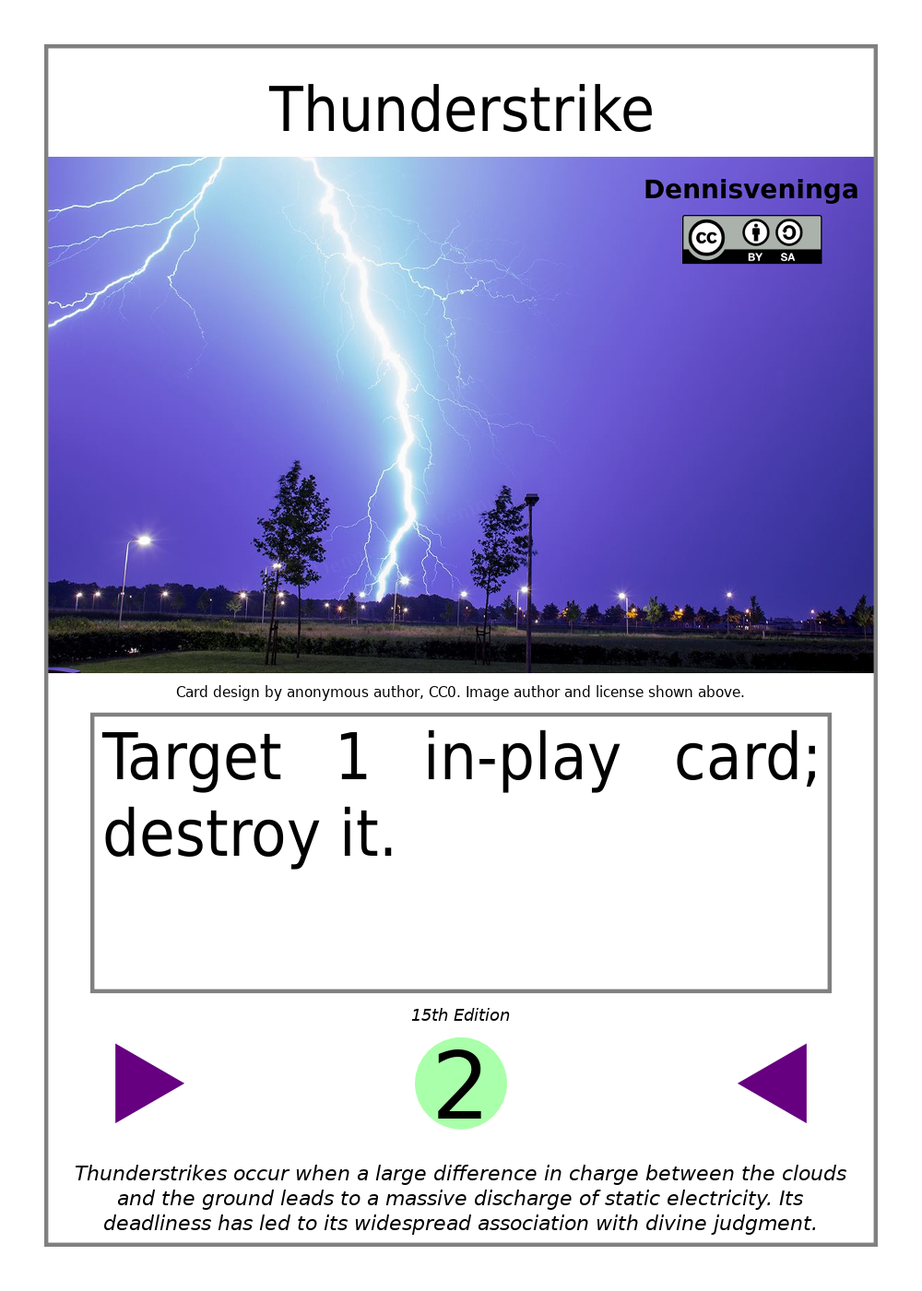
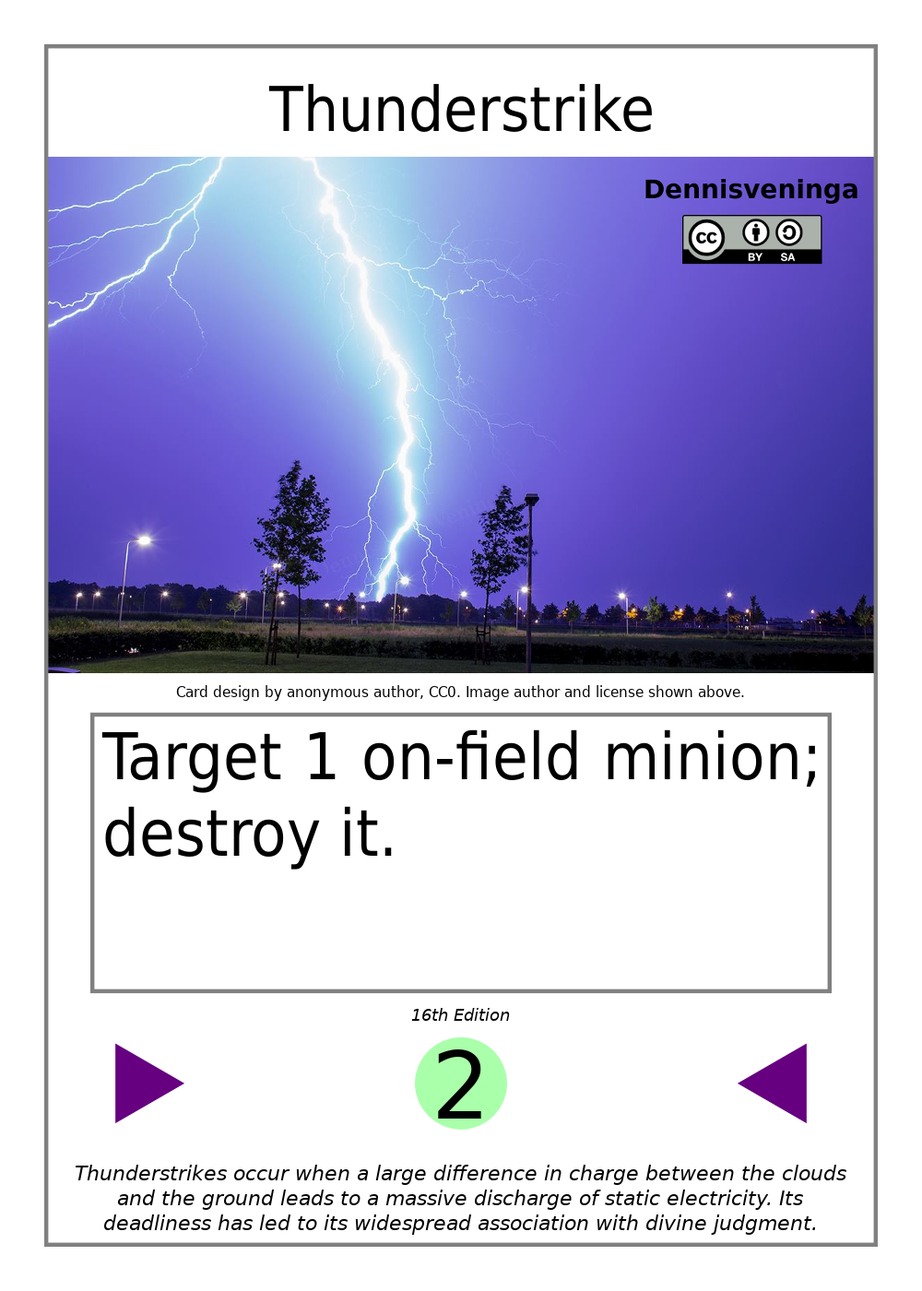
Updated the examples.
Camel example was replaced with ass, since camel doesn't have an
activation cost anymore.

Changed region(s): [[0.341, 0.5529, 0.868, 0.6143]]

diff --git a/examples.html b/examples.html
@@ -35,7 +35,7 @@
                 <li><a href="#asteroid">Spell: Asteroid Impact</a></li>
                 <li><a href="#thunderstrike">Spell: Thunderstrike</a></li>
                 <li><a href="#thor">Minion: Thor</a></li>
-                <li><a href="#camelus-bactrianus">Minion: Camelus Bactrianus</a></li>
+                <li><a href="#equus-africanus-asinus">Minion: Equus Africanus Asinus</a></li>
             </ol>
         </nav>
 
@@ -72,13 +72,13 @@
         </ol>
 
         <h3 id="asteroid">Spell: Asteroid Impact</h3>
-        <img class="example" src="images/build-examples/asteroid_impact.png" alt="Asteroid Impact: level 8 spell with ability: &ldquo;Target up to 4 in-play cards; destroy the targets.&rdquo;">
+        <img class="example" src="images/build-examples/asteroid_impact.png" alt="Asteroid Impact: level 8 spell with ability: &ldquo;Target up to 4 on-field minions; destroy the targets.&rdquo;">
         <p>This spell is slightly more complex than Antibiotic, but still fairly simple, composed of a single target selection and a single effect. The following steps recreate this spell:</p>
         <ol>
             <li>Begin with the spell's level set to 0.</li>
             <li>Choose the effect you want from <a href="cardbuilding.html#effects">Card Building Guide: Effects</a>. In this case, it's: &ldquo;destroy the targets.&rdquo;</li>
-            <li>Since the chosen effect does something with targets, we must include a target selection for this to do anything. Choose the target selection you want from <a href="cardbuilding.html#targeting">Card Building Guide: Target Selections</a>. In this case, we choose, &ldquo;Target up to <var>x</var> in-play cards;&rdquo;</li>
-            <li>Since the target selection has a variable <var>x</var>, replace that variable with a number. In this case, we choose the number 4. This gives us: &ldquo;Target up to 4 in-play cards;&rdquo;</li>
+            <li>Since the chosen effect does something with targets, we must include a target selection for this to do anything. Choose the target selection you want from <a href="cardbuilding.html#targeting">Card Building Guide: Target Selections</a>. In this case, we choose, &ldquo;Target up to <var>x</var> on-field minions;&rdquo;</li>
+            <li>Since the target selection has a variable <var>x</var>, replace that variable with a number. In this case, we choose the number 4. This gives us: &ldquo;Target up to 4 on-field minions;&rdquo;</li>
             <li>Check the target selection's formula for the variable <var>t</var>. In this case, the formula is
                 <math display="inline">
                     <mrow>
@@ -119,19 +119,19 @@
                 </math>
                 We can now solve the level increase formula; doing so, we get 8 and therefore add 8 to the spell's level, bringing it to 8.
             </li>
-            <li>The spell's sub-ability text is the target selection followed by the effect.  In this case, we get: &ldquo;Target up to 4 in-play cards; destroy the targets.&rdquo;</li>
-            <li>Since the spell has no activation conditions and no activation costs, the ability text is just the sub-ability text. This gives us: &ldquo;Target up to 4 in-play cards; destroy the targets.&rdquo;</li>
+            <li>The spell's sub-ability text is the target selection followed by the effect.  In this case, we get: &ldquo;Target up to 4 on-field minions; destroy the targets.&rdquo;</li>
+            <li>Since the spell has no activation conditions and no activation costs, the ability text is just the sub-ability text. This gives us: &ldquo;Target up to 4 on-field minions; destroy the targets.&rdquo;</li>
             <li>The spell's final level in this example is 8.</li>
         </ol>
 
         <h3 id="thunderstrike">Spell: Thunderstrike</h3>
-        <img class="example" src="images/build-examples/thunderstrike.png" alt="Thunderstrike: level 2 spell with ability: &ldquo;Target 1 in-play card; destroy it.&rdquo;">
+        <img class="example" src="images/build-examples/thunderstrike.png" alt="Thunderstrike: level 2 spell with ability: &ldquo;Target 1 on-field minion; destroy it.&rdquo;">
         <p>This lower-level spell is made in almost exactly the same way as Asteroid Impact. The following steps recreate it:</p>
         <ol>
             <li>Begin with the spell's level set to 0.</li>
             <li>Choose the effect you want from <a href="cardbuilding.html#effects">Card Building Guide: Effects</a>. In this case, it's: &ldquo;destroy the targets.&rdquo;</li>
-            <li>Since the chosen effect does something with targets, we must include a target selection for this to do anything. Choose the target selection you want from <a href="cardbuilding.html#targeting">Card Building Guide: Target Selections</a>. In this case, we choose, &ldquo;Target up to <var>x</var> in-play cards;&rdquo;</li>
-            <li>Since the target selection has a variable <var>x</var>, replace that variable with a number. In this case, we choose the number 1. This gives us: &ldquo;Target up to 1 in-play cards;&rdquo;</li>
+            <li>Since the chosen effect does something with targets, we must include a target selection for this to do anything. Choose the target selection you want from <a href="cardbuilding.html#targeting">Card Building Guide: Target Selections</a>. In this case, we choose, &ldquo;Target up to <var>x</var> on-field minions;&rdquo;</li>
+            <li>Since the target selection has a variable <var>x</var>, replace that variable with a number. In this case, we choose the number 1. This gives us: &ldquo;Target up to 1 on-field minions;&rdquo;</li>
             <li>Check the target selection's formula for the variable <var>t</var>. In this case, the formula is
                 <math display="inline">
                     <mrow>
@@ -172,14 +172,14 @@
                 </math>
                 We can now solve the formula; doing so, we get 2 and therefore add 2 to the spell's level, bringing it to 2.
             </li>
-            <li>The spell's sub-ability text is the target selection followed by the effect. In this case, we get: &ldquo;Target up to 1 in-play cards; destroy the targets.&rdquo;</li>
-            <li>Since only 1 card can be targeted by the spell's sub-ability, following the card building guide's recommendations, we remove the words "up to" and change the plural &ldquo;cards&rdquo; to the singular &ldquo;card&rdquo; in the target selection, and we change the plural &ldquo;the targets&rdquo; in the effect to the singular &ldquo;it&rdquo;. This gives us: &ldquo;Target 1 in-play card; destroy it.&rdquo;</li>
-            <li>Since the spell has no activation conditions and no activation costs, the ability text is just the sub-ability text. This gives us: &ldquo;Target 1 in-play card; destroy it.&rdquo;</li>
+            <li>The spell's sub-ability text is the target selection followed by the effect. In this case, we get: &ldquo;Target up to 1 on-field minions; destroy the targets.&rdquo;</li>
+            <li>Since only 1 card can be targeted by the spell's sub-ability, following the card building guide's recommendations, we remove the words "up to" and change the plural &ldquo;cards&rdquo; to the singular &ldquo;card&rdquo; in the target selection, and we change the plural &ldquo;the targets&rdquo; in the effect to the singular &ldquo;it&rdquo;. This gives us: &ldquo;Target 1 on-field minion; destroy it.&rdquo;</li>
+            <li>Since the spell has no activation conditions and no activation costs, the ability text is just the sub-ability text. This gives us: &ldquo;Target 1 on-field minion; destroy it.&rdquo;</li>
             <li>The spell's final level in this example is 2.</li>
         </ol>
 
         <h3 id="thor">Minion: Thor</h3>
-        <img class="example" src="images/build-examples/thor.png" alt="Thor: level 9 minion with 4 SP, 6 HP, and a single ability titled &ldquo;THOR'S HAMMER&rdquo;: &ldquo;When this card attacks, after Attack Formation (ghost-play): Target 1 in-play card; destroy it.&rdquo;">
+        <img class="example" src="images/build-examples/thor.png" alt="Thor: level 9 minion with 4 SP, 6 HP, and a single ability titled &ldquo;THOR'S HAMMER&rdquo;: &ldquo;When this card attacks, after Attack Formation (ghost-play): Target 1 on-field minion; destroy it.&rdquo;">
         <p>This minion has an ability which is almost identical to the Thunderstrike spell, but includes an activation condition as well. The following steps recreate this minion:</p>
         <ol>
             <li>Begin with the minion's level set to 0.</li>
@@ -190,8 +190,8 @@
             <li>Choose a name for the minion's ability. It can be anything you want, but must be in all capital letters. In this case, we choose &ldquo;THOR'S HAMMER&rdquo;. Its level starts at 0.</li>
             <li>In this case, we want to include an activation condition in THOR'S HAMMER. Select the desired activation condition from <a href="cardbuilding.html#conditions">Card Building Guide: Activation Conditions</a>. In this case, it's: &ldquo;When this card attacks, after Attack Formation (ghost-play):&rdquo;</li>
             <li>Choose the effect you want for THOR'S HAMMER's sub-ability from <a href="cardbuilding.html#effects">Card Building Guide: Effects</a>. In this case, it's: &ldquo;destroy the targets.&rdquo;</li>
-            <li>Since the chosen effect does something with targets, we must include a target selection for this to do anything. Choose the target selection you want from <a href="cardbuilding.html#targeting">Card Building Guide: Target Selections</a>. In this case, we choose, &ldquo;Target up to <var>x</var> in-play cards;&rdquo;</li>
-            <li>Since the target selection has a variable <var>x</var>, replace that variable with a number. In this case, we choose the number 1. This gives us: &ldquo;Target up to 1 in-play cards;&rdquo;</li>
+            <li>Since the chosen effect does something with targets, we must include a target selection for this to do anything. Choose the target selection you want from <a href="cardbuilding.html#targeting">Card Building Guide: Target Selections</a>. In this case, we choose, &ldquo;Target up to <var>x</var> on-field minions;&rdquo;</li>
+            <li>Since the target selection has a variable <var>x</var>, replace that variable with a number. In this case, we choose the number 1. This gives us: &ldquo;Target up to 1 on-field minions;&rdquo;</li>
             <li>Check the target selection's formula for the variable <var>t</var>. In this case, the formula is
                 <math display="inline">
                     <mrow>
@@ -233,15 +233,15 @@
                 We can now solve the formula; doing so, we get 2 and therefore add 2 to THOR'S HAMMER's level, bringing it to 2.
             </li>
             <li>Add THOR'S HAMMER's level (2) to the minion's level, bringing it to 9.</li>
-            <li>THOR'S HAMMER's sub-ability text is the target selection followed by the effect. In this case, we get: &ldquo;Target up to 1 in-play cards; destroy the targets.&rdquo;</li>
-            <li>Since only 1 card can be targeted by THOR'S HAMMER's sub-ability, following the card building guide's recommendations, we remove the words "up to" and change the plural &ldquo;cards&rdquo; to the singular &ldquo;card&rdquo; in the target selection, and we change the plural &ldquo;the targets&rdquo; in the effect to the singular &ldquo;it&rdquo;. This gives us: &ldquo;Target 1 in-play card; destroy it.&rdquo;</li>
-            <li>THOR'S HAMMER's ability text is its name (&ldquo;THOR'S HAMMER&rdquo;), followed by a colon, followed by its activation condition, followed by its sub-ability text. In this case, we get: &ldquo;THOR'S HAMMER: When this card attacks, after Attack Formation (ghost-play): Target 1 in-play card; destroy it.&rdquo;</li>
+            <li>THOR'S HAMMER's sub-ability text is the target selection followed by the effect. In this case, we get: &ldquo;Target up to 1 on-field minions; destroy the targets.&rdquo;</li>
+            <li>Since only 1 card can be targeted by THOR'S HAMMER's sub-ability, following the card building guide's recommendations, we remove the words "up to" and change the plural &ldquo;cards&rdquo; to the singular &ldquo;card&rdquo; in the target selection, and we change the plural &ldquo;the targets&rdquo; in the effect to the singular &ldquo;it&rdquo;. This gives us: &ldquo;Target 1 on-field minion; destroy it.&rdquo;</li>
+            <li>THOR'S HAMMER's ability text is its name (&ldquo;THOR'S HAMMER&rdquo;), followed by a colon, followed by its activation condition, followed by its sub-ability text. In this case, we get: &ldquo;THOR'S HAMMER: When this card attacks, after Attack Formation (ghost-play): Target 1 on-field minion; destroy it.&rdquo;</li>
             <li>The minion's ability text is the ability text of all abilities (THOR'S HAMMER in this case), each on a separate paragraph.</li>
             <li>The minion's final level in this example is 9.</li>
         </ol>
 
-        <h3 id="camelus-bactrianus">Minion: Camelus Bactrianus</h3>
-        <img class="example" src="images/build-examples/camelus_bactrianus.png" alt="Camelus Bactrianus: level 5 minion with 0 SP, 0 HP, and 2 abilities: &ldquo;CARAVAN&rdquo; and &ldquo;LAST STRAW&rdquo;. CARAVAN: &ldquo;Excavate 6 cards and target 1 excavated card; bounce it.&rdquo; LAST STRAW: &ldquo;When this in-play card is destroyed (ghost-play): self-exhaust 4 resources→ Excavate 11 cards and target 1 excavated card; sheathe it.&rdquo;">
+        <h3 id="equus-africanus-asinus">Minion: Equus Africanus Asinus</h3>
+        <img class="example" src="images/build-examples/equus_africanus_asinus.png" alt="Equus Africanus Asinus: level 3 minion with 0 SP, 0 HP, and 2 abilities: &ldquo;ASSIST&rdquo; and &ldquo;REASSESS&rdquo;. ASSIST: &ldquo;Draw 1 card.&rdquo; REASSESS: &ldquo;When this on-field minion is destroyed (ghost-play): self-exhaust 2 resources→ Target this card; silo it.&rdquo;">
         <p>This minion has no SP or HP, but has two abilities, one of which has a non-standard activation condition and an activation cost. The following steps recreate this minion:</p>
         <ol>
             <li>Begin with the minion's level set to 0.</li>
@@ -249,51 +249,46 @@
             <li>Add the minion's SP to its level, bringing it to 0.</li>
             <li>Choose the minion's HP. You can choose any number, but a multiple of 2 is recommended. In this case, we choose 0.</li>
             <li>Take the minion's HP and divide it by 2. Add the result (0 in this case) to the minion's level, bringing it to 0.</li>
-            <li>Choose a name for the minion's first ability. It can be anything you want, but must be in all capital letters. In this case, we choose &ldquo;CARAVAN&rdquo;. Its level starts at 0</li>
-            <li>Choose the effect you want for CARAVAN's sub-ability from <a href="cardbuilding.html#effects">Card Building Guide: Effects</a>. In this case, it's: &ldquo;bounce the targets.&rdquo;</li>
-            <li>Since the chosen effect does something with targets, we must include a target selection for this to do anything. Choose the target selection you want from <a href="cardbuilding.html#targeting">Card Building Guide: Target Selections</a>. In this case, we choose: &ldquo;Excavate <var>x</var> cards and target up to <var>y</var> excavated cards;&rdquo;</li>
-            <li>Since the target selection has the variables <var>x</var> and <var>y</var>, replace those variables with numbers. In this case, we choose the number 6 for <var>x</var> and the number 1 for <var>y</var>. This gives us: &ldquo;Excavate 6 cards and target up to 1 excavated cards;&rdquo;</li>
+            <li>Choose a name for the minion's first ability. It can be anything you want, but must be in all capital letters. In this case, we choose &ldquo;ASSIST&rdquo;. Its level starts at 0.</li>
+            <li>Choose the effect you want for ASSIST's sub-ability from <a href="cardbuilding.html#effects">Card Building Guide: Effects</a>. In this case, it's: &ldquo;draw <var>x</var> cards.&rdquo;</li>
+            <li>Since the effect has a variable <var>x</var>, replace that variable with a number. In this case, we choose the number 1. This gives us: &ldquo;draw 1 cards.&rdquo;</li>
+            <li>Check the effect's level increase formula. In this case, the formula is
+                <math display="inline">
+                    <mrow>
+                        <mn>2</mn>
+                        <mo>&InvisibleTimes;</mo>
+                        <mi>x</mi>
+                    </mrow>
+                    <mtext>.</mtext>
+                </math>
+                Replace the variable <var>x</var> in this formula with the number chosen in the previous step; in this case, 1. Doing so, we get
+                <math display="inline">
+                    <mrow>
+                        <mn>2</mn>
+                        <mo>×</mo>
+                        <mn>1</mn>
+                    </mrow>
+                    <mtext>.</mtext>
+                </math>
+                We can now solve the formula; doing so, we get 2 and therefore add 2 to ASSIST's level, bringing it to 2.
+            </li>
+            <li>Add ASSIST's level (2) to the minion's level, bringing it to 2.</li>
+            <li>Since ASSIST has no target selection, the sub-ability text is just the effect text. Since the number chosen was 1, we change the plural "cards" to the singular "card". This gives us: &ldquo;Draw 1 card.&rdquo;</li>
+            <li>ASSIST's ability text is its name (&ldquo;ASSIST&rdquo;), followed by a colon, followed by its sub-ability text. This gives us: &ldquo;ASSIST: Draw 1 card.&rdquo;</li>
+            <li>Choose a name for the minion's second ability. In this case, we choose &ldquo;REASSESS&rdquo;. Its level starts at 0.</li>
+            <li>In this case, we want to include an activation condition in REASSESS. Select the desired activation condition from <a href="cardbuilding.html#conditions">Card Building Guide: Activation Conditions</a>. In this case, it's: &ldquo;When this on-field minion is destroyed (ghost-play):&rdquo;</li>
+            <li>Choose the effect you want for REASSESS's sub-ability from <a href="cardbuilding.html#effects">Card Building Guide: Effects</a>. In this case, it's: &ldquo;silo the targets.&rdquo;</li>
+            <li>Since the chosen effect does something with targets, we must include a target selection for this to do anything. Choose the target selection you want from <a href="cardbuilding.html#targeting">Card Building Guide: Target Selections</a>. In this case, we choose: &ldquo;Target this card;&rdquo;</li>
             <li>Check the target selection's formula for the variable <var>t</var>. In this case, the formula is
                 <math display="inline">
                     <mrow>
                         <mi>t</mi>
                         <mo>=</mo>
-                        <mfrac>
-                            <mrow>
-                                <mi>x</mi>
-                                <mo>+</mo>
-                                <mn>4</mn>
-                                <mo>&InvisibleTimes;</mo>
-                                <mi>y</mi>
-                            </mrow>
-                            <mrow>
-                                <mn>5</mn>
-                            </mrow>
-                        </mfrac>
+                        <mn>1</mn>
                     </mrow>
                     <mtext>.</mtext>
                 </math>
-                Replace the variables <var>x</var> and <var>y</var> in this formula with the respective numbers chosen in the previous step; in this case, 6 for <var>x</var> and 1 for <var>y</var>. Doing so, we get
-                <math display="inline">
-                    <mrow>
-                        <mi>t</mi>
-                        <mo>=</mo>
-                        <mfrac>
-                            <mrow>
-                                <mn>6</mn>
-                                <mo>+</mo>
-                                <mn>4</mn>
-                                <mo>×</mo>
-                                <mn>1</mn>
-                            </mrow>
-                            <mrow>
-                                <mn>5</mn>
-                            </mrow>
-                        </mfrac>
-                    </mrow>
-                    <mtext>.</mtext>
-                </math>
-                We can now solve the formula; doing so, we get 2. Therefore, the variable <var>t</var> is set to 2.
+                Since the formula is only a simple variable assignment, the variable <var>t</var> is set to 1.
             </li>
             <li>Check the effect's level increase formula. In this case, the formula is
                 <math display="inline">
@@ -304,81 +299,21 @@
                     </mrow>
                     <mtext>.</mtext>
                 </math>
-                Replace the variable <var>t</var> in this formula with the number calculated in the previous step; in this case, 2. Doing so, we get 
+                Replace the variable <var>t</var> in this formula with the number calculated in the previous step; in this case, 1. Doing so, we get
                 <math display="inline">
                     <mrow>
                         <mn>2</mn>
                         <mo>×</mo>
-                        <mn>2</mn>
+                        <mn>1</mn>
                     </mrow>
                     <mtext>.</mtext>
                 </math>
-                We can now solve the formula; doing so, we get 4 and therefore add 4 to CARAVAN's level, bringing it to 4.
+                We can now solve the formula; doing so, we get 2 and therefore add 2 to REASSESS's level, bringing it to 2.
             </li>
-            <li>Add CARAVAN's level (4) to the minion's level, bringing it to 4.</li>
-            <li>CARAVAN's sub-ability text is the target selection followed by the effect. In this case, we get: &ldquo;Excavate 6 cards and target up to 1 excavated cards; bounce the targets.&rdquo;</li>
-            <li>Since only 1 card can be targeted by CARAVAN's sub-ability, following the card building guide's recommendations, we remove the words "up to" and change the plural &ldquo;cards&rdquo; to the singular &ldquo;card&rdquo; in the target selection, and we change the plural &ldquo;the targets&rdquo; in the effect to the singular &ldquo;it&rdquo;. This gives us: &ldquo;Excavate 6 cards and target 1 excavated card; bounce it.&rdquo;</li>
-            <li>CARAVAN's ability text is its name (&ldquo;CARAVAN&rdquo;), followed by a colon, followed by its sub-ability text. This gives us: &ldquo;CARAVAN: Excavate 6 cards and target 1 excavated card; bounce it.&rdquo;</li>
-            <li>Choose a name for the minion's second ability. In this case, we choose &ldquo;LAST STRAW&rdquo;. Its level starts at 0</li>
-            <li>In this case, we want to include an activation condition in LAST STRAW. Select the desired activation condition from <a href="cardbuilding.html#conditions">Card Building Guide: Activation Conditions</a>. In this case, it's: &ldquo;When this in-play card is destroyed (ghost-play):&rdquo;</li>
-            <li>Choose the effect you want for LAST STRAW's sub-ability from <a href="cardbuilding.html#effects">Card Building Guide: Effects</a>. In this case, it's: &ldquo;sheathe the targets.&rdquo;</li>
-            <li>Since the chosen effect does something with targets, we must include a target selection for this to do anything. Choose the target selection you want from <a href="cardbuilding.html#targeting">Card Building Guide: Target Selections</a>. In this case, we choose: &ldquo;Excavate <var>x</var> cards and target up to <var>y</var> excavated cards;&rdquo;</li>
-            <li>Since the target selection has the variables <var>x</var> and <var>y</var>, replace those variables with numbers. In this case, we choose the number 11 for <var>x</var> and the number 1 for <var>y</var>. This gives us: &ldquo;Excavate 11 cards and target up to 1 excavated cards;&rdquo;</li>
-            <li>Check the target selection's formula for the variable <var>t</var>. In this case, the formula is
-                <math display="inline">
-                    <mrow>
-                        <mi>t</mi>
-                        <mo>=</mo>
-                        <mfrac>
-                            <mrow>
-                                <mi>x</mi>
-                                <mo>+</mo>
-                                <mn>4</mn>
-                                <mo>&InvisibleTimes;</mo>
-                                <mi>y</mi>
-                            </mrow>
-                            <mrow>
-                                <mn>5</mn>
-                            </mrow>
-                        </mfrac>
-                    </mrow>
-                    <mtext>.</mtext>
-                </math>
-                Replace the variables <var>x</var> and <var>y</var> in this formula with the respective numbers chosen in the previous step; in this case, 11 for <var>x</var> and 1 for <var>y</var>. Doing so, we get
-                <math display="inline">
-                    <mrow>
-                        <mi>t</mi>
-                        <mo>=</mo>
-                        <mfrac>
-                            <mrow>
-                                <mn>11</mn>
-                                <mo>+</mo>
-                                <mn>4</mn>
-                                <mo>×</mo>
-                                <mn>1</mn>
-                            </mrow>
-                            <mrow>
-                                <mn>5</mn>
-                            </mrow>
-                        </mfrac>
-                    </mrow>
-                    <mtext>.</mtext>
-                </math>
-                We can now solve the formula; doing so, we get 3. Therefore, the variable <var>t</var> is set to 3.
-            </li>
-            <li>Check the effect's level increase formula. In this case, the formula is
-                <math display="inline">
-                    <mrow>
-                        <mi>t</mi>
-                    </mrow>
-                    <mtext>.</mtext>
-                </math>
-                Replace the variable <var>t</var> in this formula with the number calculated in the previous step; in this case, 3. Doing so, we get 3. Since the formula is only a simple variable, we add the number (3) to LAST STRAW's level, bringing it to 3.
-            </li>
-            <li>LAST STRAW's sub-ability text is the target selection followed by the effect. In this case, we get: &ldquo;Excavate 11 cards and target up to 1 excavated cards; sheathe the targets.&rdquo;</li>
-            <li>Since only 1 card can be targeted by LAST STRAW's sub-ability, following the card building guide's recommendations, we remove the words "up to" and change the plural &ldquo;cards&rdquo; to the singular &ldquo;card&rdquo; in the target selection, and we change the plural &ldquo;the targets&rdquo; in the effect to the singular &ldquo;it&rdquo;. This gives us: &ldquo;Excavate 11 cards and target 1 excavated card; sheathe it.&rdquo;</li>
-            <li>In this case, we want to include an activation cost in LAST STRAW. Select the desired activation cost from <a href="cardbuilding.html#costs">Card Building Guide: Activation Costs</a>. In this case, it's: &ldquo;self-exhaust <var>x</var> resources→&rdquo;</li>
-            <li>Since the activation cost has a variable <var>x</var>, replace that variable with a number. In this case, we choose the number 4. This gives us: &ldquo;self-exhaust 4 resources→&rdquo;</li>
+            <li>REASSESS's sub-ability text is the target selection followed by the effect. In this case, we get: &ldquo;Target this card; silo the targets.&rdquo;</li>
+            <li>Since only 1 card can be targeted by REASSESS's sub-ability, following the card building guide's recommendations, we change the plural &ldquo;the targets&rdquo; in the effect to the singular &ldquo;it&rdquo;. This gives us: &ldquo;Target this card; silo it.&rdquo;</li>
+            <li>In this case, we want to include an activation cost in REASSESS. Select the desired activation cost from <a href="cardbuilding.html#costs">Card Building Guide: Activation Costs</a>. In this case, it's: &ldquo;self-exhaust <var>x</var> resources→&rdquo;</li>
+            <li>Since the activation cost has a variable <var>x</var>, replace that variable with a number. In this case, we choose the number 2. This gives us: &ldquo;self-exhaust 2 resources→&rdquo;</li>
             <li>Check the activation cost's level decrease formula. In this case, the formula is
                 <math display="inline">
                     <mfrac>
@@ -391,11 +326,11 @@
                     </mfrac>
                     <mtext>.</mtext>
                 </math>
-                Replace the variable <var>x</var> in this formula with the number chosen in the previous step; in this case, 4. Doing so, we get
+                Replace the variable <var>x</var> in this formula with the number chosen in the previous step; in this case, 2. Doing so, we get
                 <math display="inline">
                     <mfrac>
                         <mrow>
-                            <mn>4</mn>
+                            <mn>2</mn>
                         </mrow>
                         <mrow>
                             <mn>2</mn>
@@ -403,12 +338,12 @@
                     </mfrac>
                     <mtext>.</mtext>
                 </math>
-                We can now solve the formula; doing so, we get 2 and therefore subtract 2 from LAST STRAW's level, bringing it to 1.
+                We can now solve the formula; doing so, we get 1 and therefore subtract 1 from REASSESS's level, bringing it to 1.
             </li>
-            <li>Add LAST STRAW's level (1) to the minion's level, bringing it to 5.</li>
-            <li>LAST STRAW's ability text is its name (&ldquo;LAST STRAW&rdquo;), followed by a colon, followed by its activation condition, followed by its activation cost, followed by its sub-ability text. In this case, we get: &ldquo;LAST STRAW: When this in-play card is destroyed (ghost-play): self-exhaust 4 resources→ Excavate 11 cards and target 1 excavated card; sheathe it.&rdquo;</li>
-            <li>The minion's ability text is the ability text of all abilities (CARAVAN and LAST STRAW in this case), each on a separate paragraph.</li>
-            <li>The minion's final level in this example is 5.</li>
+            <li>Add REASSESS's level (1) to the minion's level, bringing it to 3.</li>
+            <li>REASSESS's ability text is its name (&ldquo;REASSESS&rdquo;), followed by a colon, followed by its activation condition, followed by its activation cost, followed by its sub-ability text. In this case, we get: &ldquo;REASSESS: When this on-field minion is destroyed (ghost-play): self-exhaust 2 resources→ Target this card; silo it.&rdquo;</li>
+            <li>The minion's ability text is the ability text of all abilities (ASSIST and REASSESS in this case), each on a separate paragraph.</li>
+            <li>The minion's final level in this example is 3.</li>
         </ol>
     </main>
 
